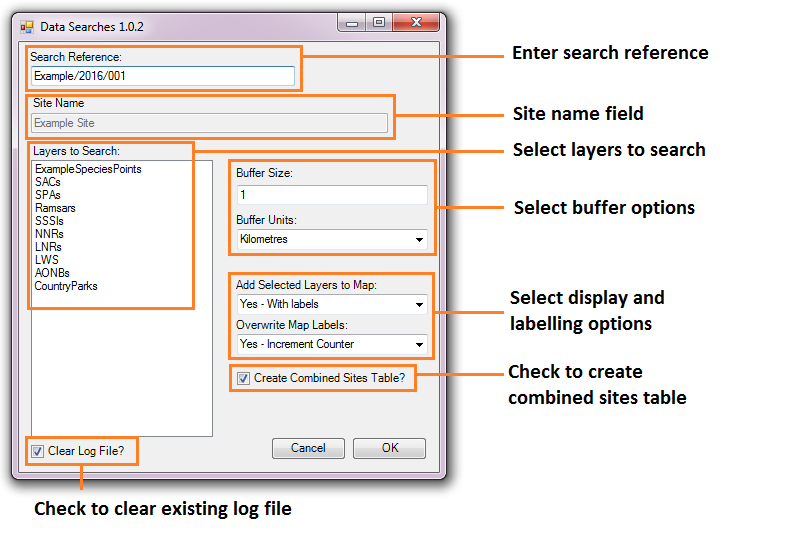
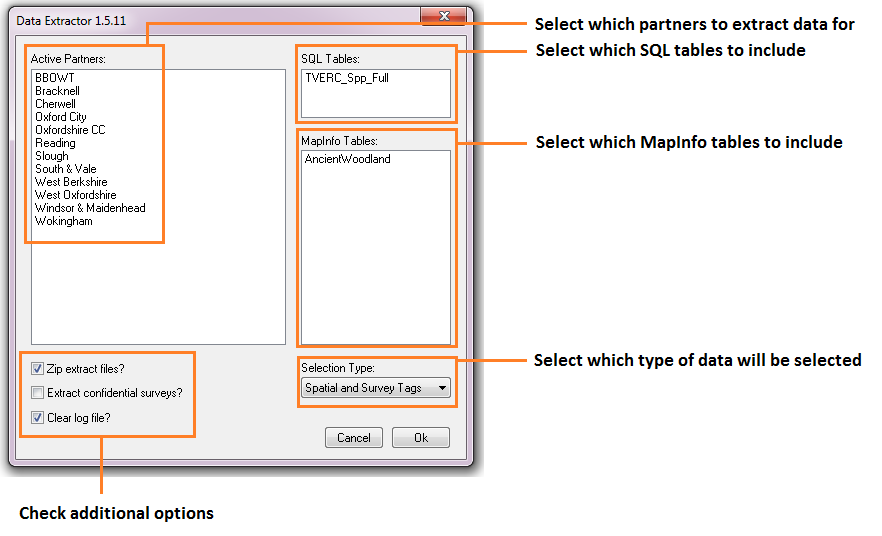
Anatomy document almost completed
Awaiting one more figure, other than that first draft of anatomy
section.

Changed region(s): [[0.0, 0.0, 0.9975, 0.9906], [0.6348, 0.5403, 0.8463, 0.5704], [0.6348, 0.6004, 0.8161, 0.6304]]

diff --git a/anatomy/anatomy.rst b/anatomy/anatomy.rst
@@ -18,7 +18,7 @@ Before any extraction can be carried out, the polygon describing the area for wh
 
 **Selecting the relevant data layers**
 
-Using the boundary defined and/or selected in the previous step, each of the data layers describing the presence of protected sites and/or species is selected one by one.
+Using the boundary defined and/or selected in the previous step, each of the data layers describing the presence of protected sites and/or species is selected one by one. Where data is held within SQL Server, this process may need to be carried out within the SQL Server management suite. 
 
 **Exporting the results**
 
@@ -36,12 +36,12 @@ The Data Extractor Tool
 
 There are four parts to the Data Extractor Tool that work together to automate the process described above:
 
-1. A GIS layer that describes the boundaries of all relevant partners and stakeholders. 
-#. Spatial data held in an SQL database, and / or in spatial data layers within the GIS system.
+1. A GIS layer that describes the boundaries of all relevant partners and stakeholders. This is held both within the GIS system and within SQL Server.
+#. Spatial data held in an SQL database, and / or in spatial data layers within the GIS system. Where data is held within SQL Server, a stored procedure for its extraction is also required.
 #. An XML file that specifies how the extractions are set up and what data should be exported for each data layer
 #. The Data Extractor Tool interface.
 
-The Data Extractor Tool is used within a GIS environment and requires all the required data layers to be preloaded in the GIS (see :numref:`figMapInfoUI`). 
+The Data Extractor Tool is used within a GIS environment and requires all the required data layers to be preloaded in the GIS (see :numref:`figMapInfoUI`). Where data is to be extracted from SQL Server, a boundary dataset is also required within the SQL Server database.
 
 .. _figMapInfoUI:
 
@@ -57,7 +57,7 @@ The Data Extractor Tool requires minimum user input in order to carry out its pr
 
 1. The user selects for which partner(s) the extraction should be carried out.
 #. The user specifies which data layers to search. Only layers that are loaded in the GIS or are available in the SQL database are made available at this point. 
-#. The users selects whether the extracted files should be added to a zip file, whether confidential data should be included, and whetherthe log file should be cleared before the process starts.
+#. The users selects whether the extracted files should be added to a zip file, whether confidential data should be included, and whether the log file should be cleared before the process starts.
 #. Finally, the user selects whether the selection of data should be based on spatial location only, survey tags (names) only, or both. This allows for the inclusion of data relevant to a stakeholder that is outside of a stakeholder's boundary.
 #. Once the user clicks 'OK' the process starts.
 
@@ -73,9 +73,8 @@ The Data Extractor Tool requires minimum user input in order to carry out its pr
 In essence, the process that the tool follows is identical to the manual extraction described above. 
 
 1. The boundary of each partner is processed in sequence. 
-#. The selected SQL and GIS data layer are selected using the boundary (and/or the survey tags for this partner).
+#. The relevant SQL and GIS data layer are selected using the boundary (and/or the survey tags) for this partner.
 #. The resulting selections are exported to the output folder as specified in the configuration file, using the columns and symbology specified in this configuration file.
-#. GIS data is added to the map as detailed by the user. Layers are symbolised as specified in the configuration file, and labels are added if requested. [Haven't run the tool yet so don't know if it does this - assume not]
 #. During the process the tool reports its progress to a log file and when the process finishes this log file is displayed, allowing the user to assess the success of the data extraction. The log file is kept with the other output in the output directory.
 
 
@@ -85,44 +84,32 @@ In essence, the process that the tool follows is identical to the manual extract
 Tool Outputs
 ============
 
-Below is a selection of outputs generated from the example data search given in figures :numref:`figArcGISUI` and :numref:`figUIAnn`. These examples were generated using the ArcGIS tool, and the GIS output from the MapInfo tool has a slightly different format. The tabular data, however, is the same for both implementations of the tool [Andy you might want to include the visuals from the MapInfo implementation].
+Below is a selection of outputs generated from an example data extraction using the data given in figure :numref:`figMapInfoUI`. The extraction was carried out for all partners shown in the menu. 
 
-When the process finishes, the GIS output is presented within the GIS interface (:numref:`figArcOutputAnn`). Note the output layers are presented in a logical format and their names refer back to the search reference number. The symbology of the layers is customised, as is the labelling applied to each output layer. The buffer that was used for the analysis is also included in the output. Only layers for which a feature was found within the search radius will be included in the output.
-
-.. _figArcOutputAnn:
-
-.. figure:: figures/ExampleOutputArcGISAnnotated.png
-	:align: center
-
-	GIS output from the Data Searches Tool (ArcGIS implementation)
-
-The GIS output is stored, together with all other outputs from the tool, in a user defined folder (:numref:`figOutputFolder`). These outputs may include a combination of GIS layers, the buffer layer that was used, tabular layers in different formats, a combined sites table, and the log file.  
+The tool output is stored in a user defined folder (:numref:`figOutputFolder`). These outputs may include a combination of GIS layers, tabular layers in different formats and the log file.
 
 .. _figOutputFolder:
 
 .. figure:: figures/OutputFolderAnnotated.png
 	:align: center
 
-	Data Searches Tool output folder
+	Data Extractor Tool output folder
 
-Tabular output is produced in a text based format and can include the distance of each feature to the search feature (:numref:`figTabularOutput`). It is possible to create summary statistics for any column during the process, which will be included in the tabular output.
-
+Tabular output is produced in CSV format (:numref:`figTabularOutput`). 
 
 .. _figTabularOutput:
 
 .. figure:: figures/ExampleTabularOutput.png
 	:align: center
 
-	Example of tabular output from the Data Searches Tool
+	Example of tabular output from the Data Extractor Tool TO BE CREATED
 
-The combined sites table (see :numref:`figCombinedSites`) contains a summary of the sites that are found. Again, this output is highly customisable and it is easy to exclude or include layers in this table as required. Any summary statistics can be included.
+Options in the tool include compressing all output into a single zip file for each partner, and the conversion of GIS data between MapInfo and ArcGIS formats (:numref:`figOutputOptions`).
 
-.. _figCombinedSites:
+.. _figOutputOptions:
 
-.. figure:: figures/CombinedSitesTableExample.png
+.. figure:: figures/OutputOptionsAnnotated.png
 	:align: center
-
-	Example of a combined sites table
 
 Finally, the log file details each step that was taken during the process, and gives some feedback about the outcomes of the steps. This includes reporting on the input for the search, the number of features that were selected in each data layer, and which data layers did not return any features (see :numref:`figLogFileExample`).
 
@@ -131,7 +118,7 @@ Finally, the log file details each step that was taken during the process, and g
 .. figure:: figures/LogFileExample.png
 	:align: center
 
-	Example of a Data Searches Tool log file
+	Example of a Data Extractor Tool log file
 
 
-The following chapters, :doc:`setting up the tool <../setup/setup>` and :doc:`running the tool <../execute/execute>`, will guide you through setting up and operating the tool in such a way that these tool outputs meet the exact requirements of data searches within your organisation.
+The following chapters, :doc:`setting up the tool <../setup/setup>` and :doc:`running the tool <../execute/execute>`, will guide you through setting up and operating the tool in such a way that these tool outputs meet the exact requirements of data extraction within your organisation.

diff --git a/introduction/introduction.rst b/introduction/introduction.rst
@@ -18,7 +18,7 @@ The Data Extractor Tool was originally developed for Greenspace Information for 
 Tool overview
 =============
 
-The Data Extractor Tool presents a simple user interface, while being configurable in a flexible way according to the requirements of the LERC or individual user. It is integrated into the user interface of the GIS system and presented there as menu item. The tool itself has a simple interface (:numref:`figUI`), requiring a minimum of input (the user is requested to select which partners an extract will be created for, and from which tables. There are some additional options to tailor the extracts to include confidential records, and some simple output options). 
+The Data Extractor Tool is configurable in a flexible way according to the requirements of the LERC or individual user through a configuration document. It is integrated into the user interface of the GIS system and presented there as menu item. The tool itself has a simple interface (:numref:`figUI`), requiring a minimum of input (the user is requested to select which partners an extract will be created for, and from which tables. There are some additional options to tailor the extracts to include confidential records, and some simple output options). Once set up, the tool communicates with both the GIS system and an associated SQL database to extract the required data.
 
 .. _figUI:
 
@@ -27,9 +27,9 @@ The Data Extractor Tool presents a simple user interface, while being configurab
 
 	the Data Extractor Tool menu
 
-Data layers for the tool can be contained in an SQL Express database, or as GIS layers in the interface. When running an extraction, the tool uses a preloaded GIS layer in the interface, as well as in the associated SQL database, to find the boundary for each partner, and then extracts only the records which intersect with this boundary. The attributes in the GIS layer for each partner define which of the available data layers will be extracted. Extracts are saved in a predefined location, and a log file is kept that records the steps of each search. The process is discussed in this document in more detail in the section on :doc:`using the tool <../execute/execute>`.
+Data layers for the tool can be contained in an SQL Express database or as GIS layers in the interface. When running an extraction, the tool uses a preloaded GIS layer in the interface, as well as in the associated SQL database, to find the boundary for each partner and extract the records which intersect with this boundary. The attributes for each partner in the GIS layer define which of the available data layers will be extracted. Extracts are saved in a predefined location, and a log file is kept that records the steps of each extraction. The process is discussed in this document in more detail in the section on :doc:`using the tool <../execute/execute>`.
 
-Defining the way that extractions should be carried out, the output that they generate, and the layers that can potentially be included is done via a configuration document written in XML. Using this document the user can configure all the parts of the extraction, for example:
+Defining the way that extractions should be carried out, the output that they generate and the layers that can potentially be included is done via a configuration document written in XML. Using this document the user can configure all the parts of the extraction, for example:
 
 * The name of the geographic layer containing the partner boundaries, and its key columns.
 * The location of the SQL server file DNS.
@@ -38,6 +38,8 @@ Defining the way that extractions should be carried out, the output that they ge
 * Details on the display and labelling of output from individual data layers where relevant.
 
 Using this configuration file, each individual LERC can tailor the Data Extractor Tool to its individual requirements. Examples of the XML file are included in the :doc:`../appendix/appendix`, and the process of setting up this file is discussed in the section on :doc:`setting up the tool <../setup/setup>`. 
+
+Additionally to the XML file the SQL server database is set up via a number of auxiliary tables and stored procedures. Again, the process of configuring this is discussed in the section on :doc:`setting up the tool <../setup/setup>`. 
 
 .. index::
 	single: Benefits
